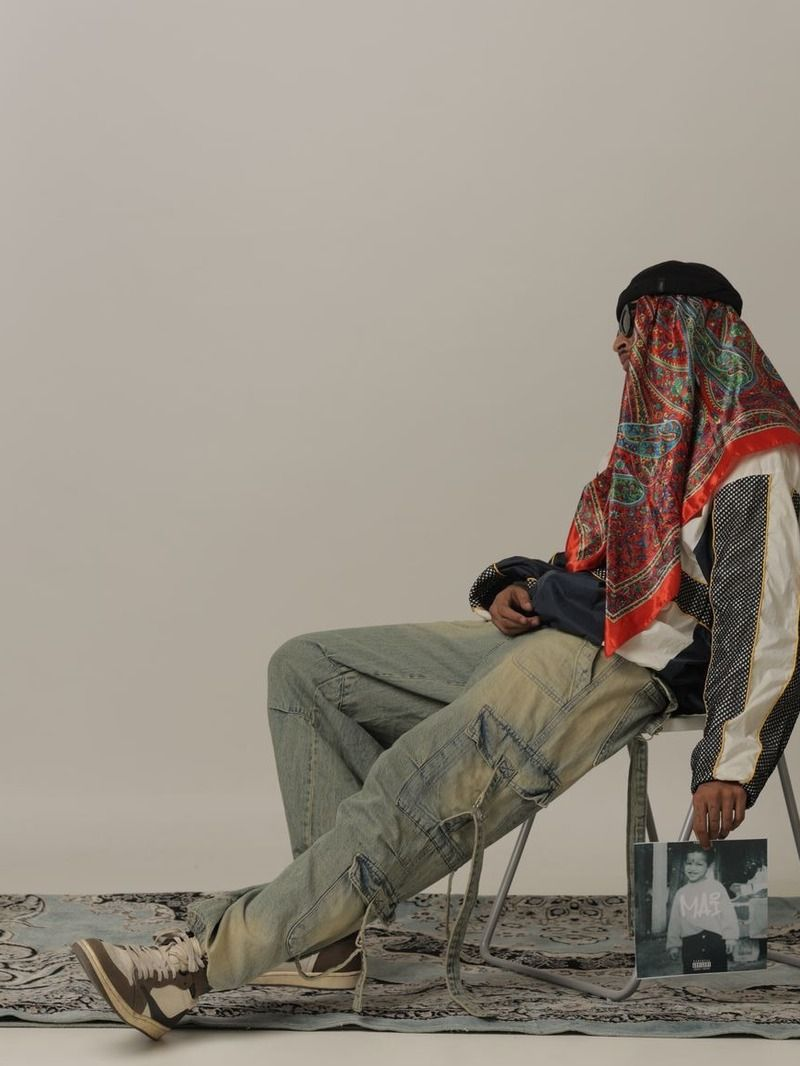
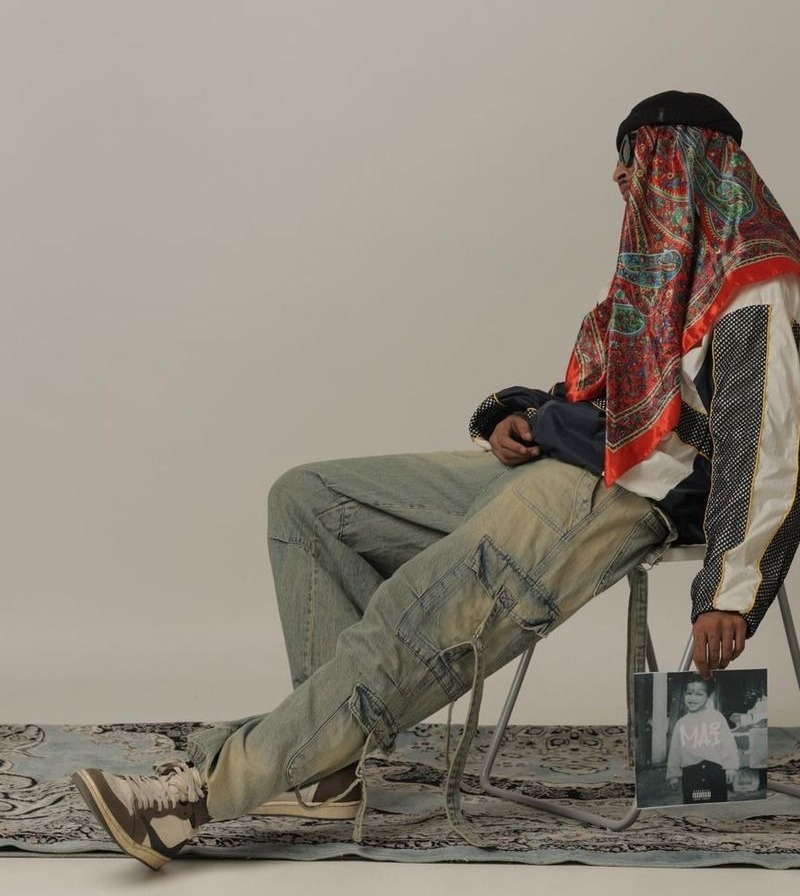
changes

diff --git a/assets/css/style.css b/assets/css/style.css
@@ -1,1 +1,1 @@
-body{font-family:Inter,sans-serif;background:#fff;color:#000;-webkit-font-smoothing:antialiased;-moz-osx-font-smoothing:grayscale}.bg-primary{background:#000}.bg-secondary{background:#f5f5f5}.bg-tertiary{background:#eee}.text-primary{color:#000}.text-secondary{color:#666}.text-muted{color:#999}.border-subtle{border-color:#e5e5e5}.border-dark{border-color:#000}.font-display{font-family:Inter,sans-serif;letter-spacing:-.02em}.text-hero{font-size:clamp(2.5rem, 6vw, 5rem);line-height:.95;font-weight:800}.text-section{font-size:clamp(1.5rem, 3vw, 2.25rem);line-height:1.1;font-weight:700}.text-body{font-size:.9375rem;line-height:1.6;color:#666}.text-caption{font-size:.8125rem;color:#999;letter-spacing:.05em;text-transform:uppercase}.section-pad{padding:6rem 1.5rem}@media (min-width:768px){.section-pad{padding:8rem 2rem}}.fade-up{animation:fadeUp .9s cubic-bezier(.16,1,.3,1) forwards;opacity:0;transform:translateY(40px)}.fade-up-delay-1{animation-delay:.1s}.fade-up-delay-2{animation-delay:.2s}.fade-up-delay-3{animation-delay:.3s}@keyframes fadeUp{to{opacity:1;transform:translateY(0)}}.hover-lift{transition:transform .4s cubic-bezier(.16, 1, .3, 1),box-shadow .4s ease}.hover-lift:hover{transform:translateY(-4px);box-shadow:0 20px 40px rgba(0,0,0,.08)}.img-reveal{transition:transform .8s cubic-bezier(.16, 1, .3, 1)}.group:hover .img-reveal{transform:scale(1.05)}.form-minimal{background:0 0;border:none;border-bottom:1px solid #e5e5e5;border-radius:0;padding:1rem 0;font-size:.9375rem;transition:border-color .3s ease;width:100%}.form-minimal:focus{outline:0;border-bottom-color:#000;box-shadow:none}.form-minimal::placeholder{color:#999}.btn-primary{background:#000;color:#fff;padding:1rem 2.5rem;font-size:.8125rem;font-weight:600;letter-spacing:.1em;text-transform:uppercase;transition:all .3s ease;display:inline-block;text-decoration:none}.btn-primary:hover{background:#333;transform:translateY(-2px)}.btn-outline{background:0 0;color:#000;border:1px solid #000;padding:1rem 2.5rem;font-size:.8125rem;font-weight:600;letter-spacing:.1em;text-transform:uppercase;transition:all .3s ease;display:inline-block;text-decoration:none}.btn-outline:hover{background:#000;color:#fff}.toast{position:fixed;bottom:2rem;right:2rem;background:#000;color:#fff;padding:1rem 1.5rem;font-size:.875rem;font-weight:500;transform:translateY(100px);opacity:0;transition:all .5s cubic-bezier(.16, 1, .3, 1);z-index:100}.toast.show{transform:translateY(0);opacity:1}.skeleton{background:linear-gradient(90deg,#f5f5f5 25%,#eee 50%,#f5f5f5 75%);background-size:200% 100%;animation:shimmer 1.5s infinite}@keyframes shimmer{0%{background-position:200% 0}100%{background-position:-200% 0}}.divider{height:1px;background:#e5e5e5;width:100%}::-webkit-scrollbar{width:6px}::-webkit-scrollbar-track{background:#fff}::-webkit-scrollbar-thumb{background:#ccc;border-radius:3px}::-webkit-scrollbar-thumb:hover{background:#999}.about-grid{display:grid;grid-template-columns:1fr;gap:4rem}@media (min-width:768px){.about-grid{grid-template-columns:1fr 1fr;gap:6rem;align-items:center}}.about-image{position:relative;overflow:hidden}.about-image::before{content:'';position:absolute;inset:0;background:linear-gradient(135deg,rgba(0,0,0,.03) 0,transparent 50%);z-index:1;pointer-events:none}.stat-number{font-size:3rem;font-weight:800;line-height:1;letter-spacing:-.03em}.about-quote{font-size:1.5rem;font-weight:300;line-height:1.4;font-style:italic;color:#333}.about-quote::before{content:'"';font-size:4rem;line-height:0;color:#e5e5e5;display:block;margin-bottom:1rem}.artist-card{transition:all .4s cubic-bezier(.16, 1, .3, 1);cursor:pointer}.artist-card:hover{transform:translateY(-8px)}.artist-photo-wrap{position:relative;overflow:hidden;border-radius:2px;background:#111}.artist-img{transition:transform .6s cubic-bezier(.16, 1, .3, 1),filter .6s ease;filter:grayscale(1) contrast(1.05)}.artist-card:hover .artist-img{transform:scale(1.06);filter:grayscale(0) contrast(1)}.artist-card:hover .artist-photo-wrap{box-shadow:0 24px 48px -12px rgba(0,0,0,.35)}.artist-overlay{position:absolute;inset:0;background:linear-gradient(to top,rgba(0,0,0,.9) 0,rgba(0,0,0,.25) 40%,rgba(0,0,0,0) 65%);display:flex;flex-direction:column;justify-content:flex-end;padding:18px}.artist-featured-badge{position:absolute;top:14px;left:14px;font-size:10px;font-weight:700;letter-spacing:.1em;text-transform:uppercase;color:#000;background:#fff;padding:4px 10px;border-radius:999px}.artist-listen-link{display:inline-flex;align-items:center;gap:5px;margin-top:10px;font-size:11px;font-weight:600;letter-spacing:.04em;color:#fff;text-decoration:none;border-bottom:1px solid rgba(255,255,255,.5);padding-bottom:1px;transition:border-color .2s ease,opacity .2s ease}.artist-listen-link:hover{border-color:#fff}.video-card{position:relative;cursor:pointer;overflow:hidden;border-radius:2px;background:#111;transition:transform .4s cubic-bezier(.16, 1, .3, 1)}.video-card:hover{transform:translateY(-6px)}.video-thumb-img{transition:transform .6s cubic-bezier(.16, 1, .3, 1),filter .4s ease}.video-card:hover .video-thumb-img{transform:scale(1.06);filter:brightness(.55)}.video-overlay{position:absolute;inset:0;background:linear-gradient(to top,rgba(0,0,0,.85) 0,rgba(0,0,0,.15) 45%,rgba(0,0,0,0) 70%);display:flex;flex-direction:column;justify-content:flex-end;padding:20px}.video-play-btn{position:absolute;top:50%;left:50%;transform:translate(-50%,-50%) scale(.85);width:56px;height:56px;border-radius:50%;background:rgba(255,255,255,.92);display:flex;align-items:center;justify-content:center;opacity:.9;transition:transform .35s cubic-bezier(.16, 1, .3, 1),opacity .35s ease,background .3s ease}.video-card:hover .video-play-btn{transform:translate(-50%,-50%) scale(1);opacity:1;background:#fff}.video-featured .video-play-btn{width:76px;height:76px}.social-icon{transition:all .3s ease}.social-icon:hover{transform:scale(1.1)}.spotify-embed{border-radius:12px;overflow:hidden}.spotify-embed iframe{border:none;width:100%}.release-card{transition:all .4s cubic-bezier(.16, 1, .3, 1)}.release-card:hover{transform:translateY(-6px)}.release-card .release-cover{transition:transform .6s cubic-bezier(.16, 1, .3, 1)}.release-card:hover .release-cover{transform:scale(1.03)}.file-drop-zone{position:relative;border:2px dashed #e5e5e5;padding:2rem;text-align:center;transition:all .3s ease;cursor:pointer}.file-drop-zone:hover{border-color:#000}.file-drop-zone.drag-over{border-color:#000;background:#f5f5f5}#mobileMenu{transition:all .3s ease}.line-clamp-3{display:-webkit-box;-webkit-line-clamp:3;-webkit-box-orient:vertical;overflow:hidden}@media (max-width:768px){.stat-number{font-size:2rem}.about-quote{font-size:1.25rem}}.logo-nav{height:32px;width:auto;display:block}.logo-footer{height:32px;width:auto;display:block}.logo-hero{height:60px;width:auto;margin-bottom:1.5rem}.logo-fallback{font-size:1.5rem;font-weight:900;letter-spacing:-.02em;color:inherit}.artist-page .logo-nav{height:28px}.release-filter-btn{padding:.4rem 1rem;font-size:.8rem;font-weight:600;letter-spacing:.05em;text-transform:uppercase;border:1px solid #d1d1d1;background:0 0;cursor:pointer;transition:all .2s}.release-filter-btn:hover{border-color:#000;color:#000}.release-filter-btn.active{background:#000;color:#fff;border-color:#000}
+body{font-family:Inter,sans-serif;background:#fff;color:#000;-webkit-font-smoothing:antialiased;-moz-osx-font-smoothing:grayscale}.bg-primary{background:#000}.bg-secondary{background:#f5f5f5}.bg-tertiary{background:#eee}.text-primary{color:#000}.text-secondary{color:#666}.text-muted{color:#999}.border-subtle{border-color:#e5e5e5}.border-dark{border-color:#000}.font-display{font-family:Inter,sans-serif;letter-spacing:-.02em}.text-hero{font-size:clamp(2.5rem, 6vw, 5rem);line-height:.95;font-weight:800}.text-section{font-size:clamp(1.5rem, 3vw, 2.25rem);line-height:1.1;font-weight:700}.text-body{font-size:.9375rem;line-height:1.6;color:#666}.text-caption{font-size:.8125rem;color:#999;letter-spacing:.05em;text-transform:uppercase}.section-pad{padding:6rem 1.5rem}@media (min-width:768px){.section-pad{padding:8rem 2rem}}.fade-up{animation:fadeUp .9s cubic-bezier(.16,1,.3,1) forwards;opacity:0;transform:translateY(40px)}.fade-up-delay-1{animation-delay:.1s}.fade-up-delay-2{animation-delay:.2s}.fade-up-delay-3{animation-delay:.3s}@keyframes fadeUp{to{opacity:1;transform:translateY(0)}}.hover-lift{transition:transform .4s cubic-bezier(.16, 1, .3, 1),box-shadow .4s ease}.hover-lift:hover{transform:translateY(-4px);box-shadow:0 20px 40px rgba(0,0,0,.08)}.img-reveal{transition:transform .8s cubic-bezier(.16, 1, .3, 1)}.group:hover .img-reveal{transform:scale(1.05)}.form-minimal{background:0 0;border:none;border-bottom:1px solid #e5e5e5;border-radius:0;padding:1rem 0;font-size:.9375rem;transition:border-color .3s ease;width:100%}.form-minimal:focus{outline:0;border-bottom-color:#000;box-shadow:none}.form-minimal::placeholder{color:#999}.form-minimal.pl-6{padding-left:1.5rem}.btn-primary{background:#000;color:#fff;padding:1rem 2.5rem;font-size:.8125rem;font-weight:600;letter-spacing:.1em;text-transform:uppercase;transition:all .3s ease;display:inline-block;text-decoration:none}.btn-primary:hover{background:#333;transform:translateY(-2px)}.btn-outline{background:0 0;color:#000;border:1px solid #000;padding:1rem 2.5rem;font-size:.8125rem;font-weight:600;letter-spacing:.1em;text-transform:uppercase;transition:all .3s ease;display:inline-block;text-decoration:none}.btn-outline:hover{background:#000;color:#fff}.toast{position:fixed;bottom:2rem;right:2rem;background:#000;color:#fff;padding:1rem 1.5rem;font-size:.875rem;font-weight:500;transform:translateY(100px);opacity:0;transition:all .5s cubic-bezier(.16, 1, .3, 1);z-index:100}.toast.show{transform:translateY(0);opacity:1}.skeleton{background:linear-gradient(90deg,#f5f5f5 25%,#eee 50%,#f5f5f5 75%);background-size:200% 100%;animation:shimmer 1.5s infinite}@keyframes shimmer{0%{background-position:200% 0}100%{background-position:-200% 0}}.divider{height:1px;background:#e5e5e5;width:100%}::-webkit-scrollbar{width:6px}::-webkit-scrollbar-track{background:#fff}::-webkit-scrollbar-thumb{background:#ccc;border-radius:3px}::-webkit-scrollbar-thumb:hover{background:#999}.about-grid{display:grid;grid-template-columns:1fr;gap:4rem}@media (min-width:768px){.about-grid{grid-template-columns:1fr 1fr;gap:6rem;align-items:center}}.about-image{position:relative;overflow:hidden}.about-image::before{content:'';position:absolute;inset:0;background:linear-gradient(135deg,rgba(0,0,0,.03) 0,transparent 50%);z-index:1;pointer-events:none}.stat-number{font-size:3rem;font-weight:800;line-height:1;letter-spacing:-.03em}.about-quote{font-size:1.5rem;font-weight:300;line-height:1.4;font-style:italic;color:#333}.about-quote::before{content:'"';font-size:4rem;line-height:0;color:#e5e5e5;display:block;margin-bottom:1rem}.artist-card{transition:all .4s cubic-bezier(.16, 1, .3, 1);cursor:pointer}.artist-card:hover{transform:translateY(-8px)}.artist-photo-wrap{position:relative;overflow:hidden;border-radius:2px;background:#111}.artist-img{transition:transform .6s cubic-bezier(.16, 1, .3, 1),filter .6s ease;filter:grayscale(1) contrast(1.05)}.artist-card:hover .artist-img{transform:scale(1.06);filter:grayscale(0) contrast(1)}.artist-card:hover .artist-photo-wrap{box-shadow:0 24px 48px -12px rgba(0,0,0,.35)}.artist-overlay{position:absolute;inset:0;background:linear-gradient(to top,rgba(0,0,0,.9) 0,rgba(0,0,0,.25) 40%,rgba(0,0,0,0) 65%);display:flex;flex-direction:column;justify-content:flex-end;padding:18px}.artist-featured-badge{position:absolute;top:14px;left:14px;font-size:10px;font-weight:700;letter-spacing:.1em;text-transform:uppercase;color:#000;background:#fff;padding:4px 10px;border-radius:999px}.artist-listen-link{display:inline-flex;align-items:center;gap:5px;margin-top:10px;font-size:11px;font-weight:600;letter-spacing:.04em;color:#fff;text-decoration:none;border-bottom:1px solid rgba(255,255,255,.5);padding-bottom:1px;transition:border-color .2s ease,opacity .2s ease}.artist-listen-link:hover{border-color:#fff}.video-card{position:relative;cursor:pointer;overflow:hidden;border-radius:2px;background:#111;transition:transform .4s cubic-bezier(.16, 1, .3, 1)}.video-card:hover{transform:translateY(-6px)}.video-thumb-img{transition:transform .6s cubic-bezier(.16, 1, .3, 1),filter .4s ease}.video-card:hover .video-thumb-img{transform:scale(1.06);filter:brightness(.55)}.video-overlay{position:absolute;inset:0;background:linear-gradient(to top,rgba(0,0,0,.85) 0,rgba(0,0,0,.15) 45%,rgba(0,0,0,0) 70%);display:flex;flex-direction:column;justify-content:flex-end;padding:20px}.video-play-btn{position:absolute;top:50%;left:50%;transform:translate(-50%,-50%) scale(.85);width:56px;height:56px;border-radius:50%;background:rgba(255,255,255,.92);display:flex;align-items:center;justify-content:center;opacity:.9;transition:transform .35s cubic-bezier(.16, 1, .3, 1),opacity .35s ease,background .3s ease}.video-card:hover .video-play-btn{transform:translate(-50%,-50%) scale(1);opacity:1;background:#fff}.video-featured .video-play-btn{width:76px;height:76px}.social-icon{transition:all .3s ease}.social-icon:hover{transform:scale(1.1)}.spotify-embed{border-radius:12px;overflow:hidden}.spotify-embed iframe{border:none;width:100%}.release-card{transition:all .4s cubic-bezier(.16, 1, .3, 1)}.release-card:hover{transform:translateY(-6px)}.release-card .release-cover{transition:transform .6s cubic-bezier(.16, 1, .3, 1)}.release-card:hover .release-cover{transform:scale(1.03)}.file-drop-zone{position:relative;border:2px dashed #e5e5e5;padding:2rem;text-align:center;transition:all .3s ease;cursor:pointer}.file-drop-zone:hover{border-color:#000}.file-drop-zone.drag-over{border-color:#000;background:#f5f5f5}#mobileMenu{transition:all .3s ease}.line-clamp-3{display:-webkit-box;-webkit-line-clamp:3;-webkit-box-orient:vertical;overflow:hidden}@media (max-width:768px){.stat-number{font-size:2rem}.about-quote{font-size:1.25rem}}.logo-nav{height:32px;width:auto;display:block}.logo-footer{height:32px;width:auto;display:block}.logo-hero{height:60px;width:auto;margin-bottom:1.5rem}.logo-fallback{font-size:1.5rem;font-weight:900;letter-spacing:-.02em;color:inherit}.artist-page .logo-nav{height:28px}.release-filter-btn{padding:.4rem 1rem;font-size:.8rem;font-weight:600;letter-spacing:.05em;text-transform:uppercase;border:1px solid #d1d1d1;background:0 0;cursor:pointer;transition:all .2s}.release-filter-btn:hover{border-color:#000;color:#000}.release-filter-btn.active{background:#000;color:#fff;border-color:#000}
